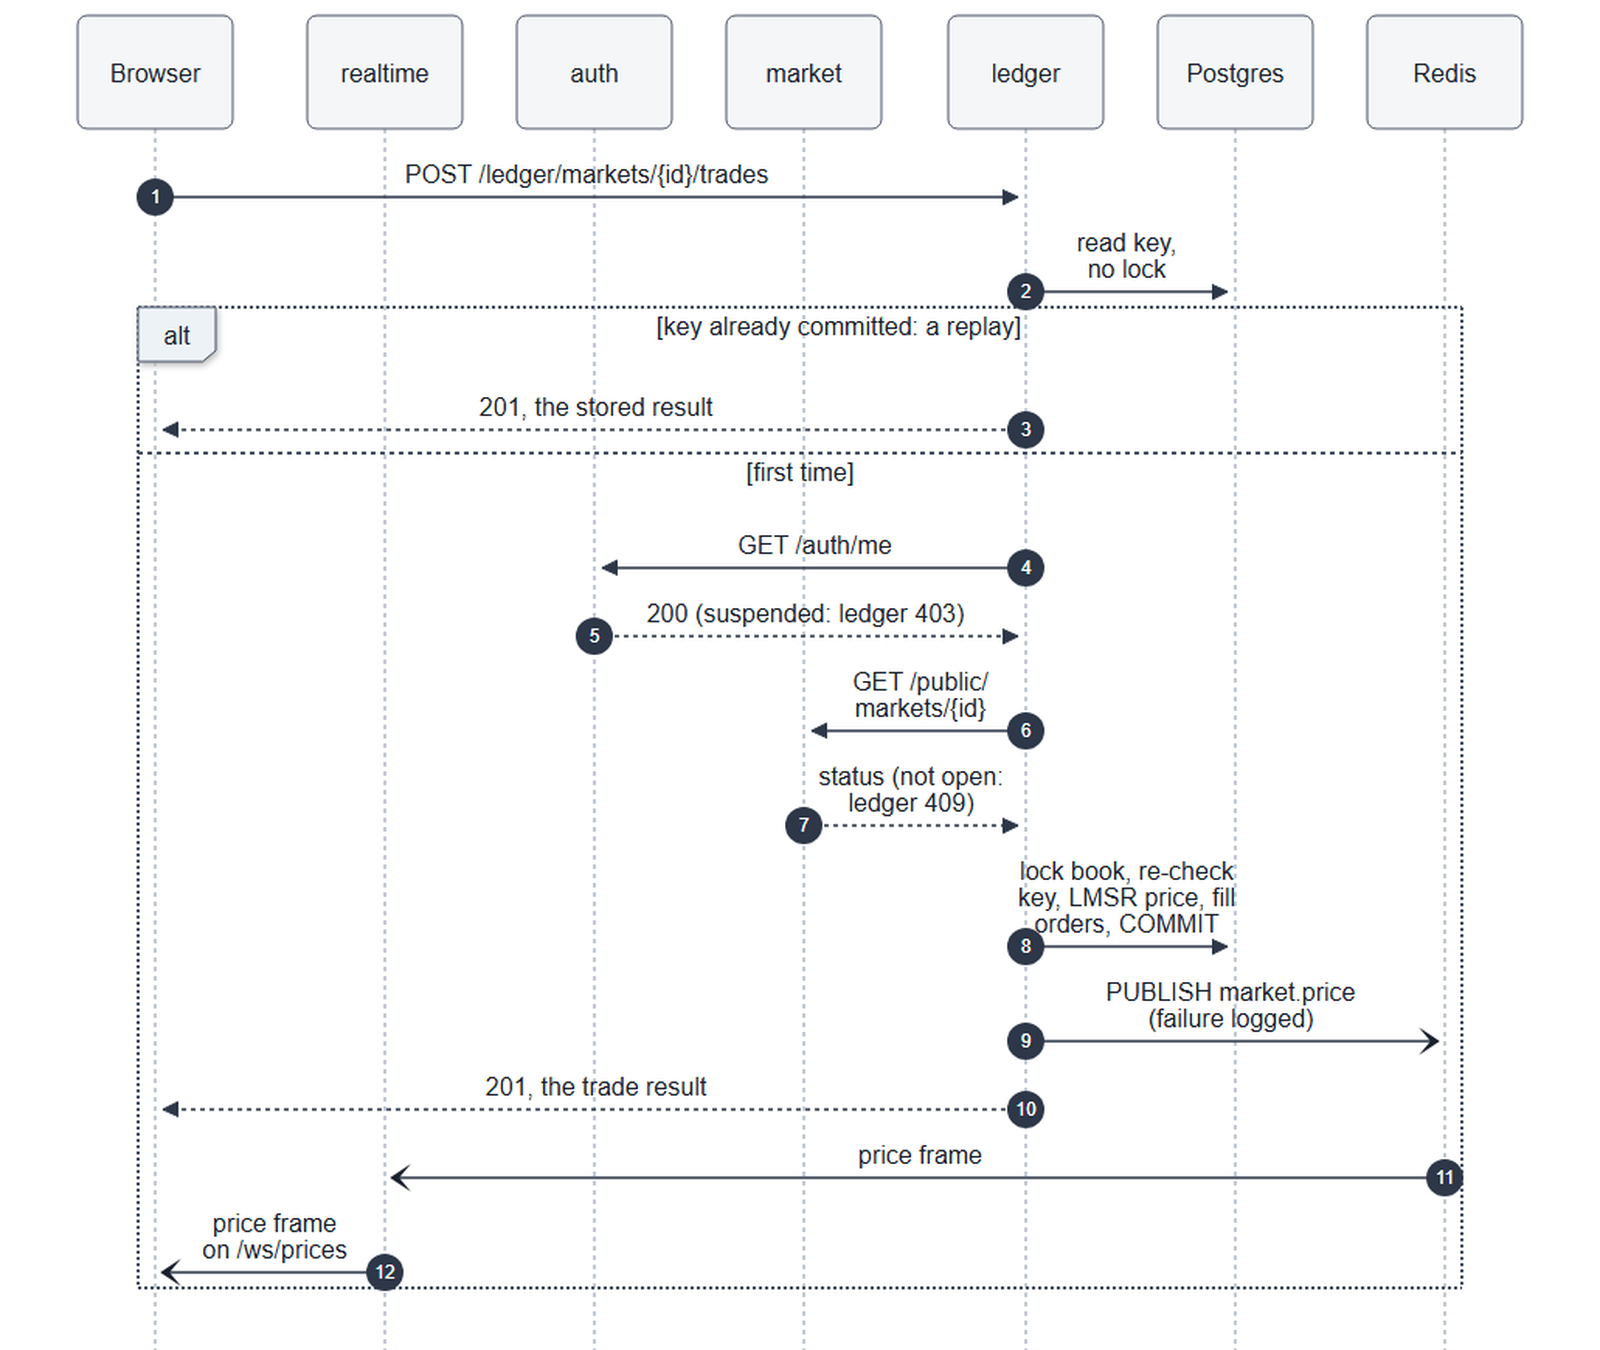
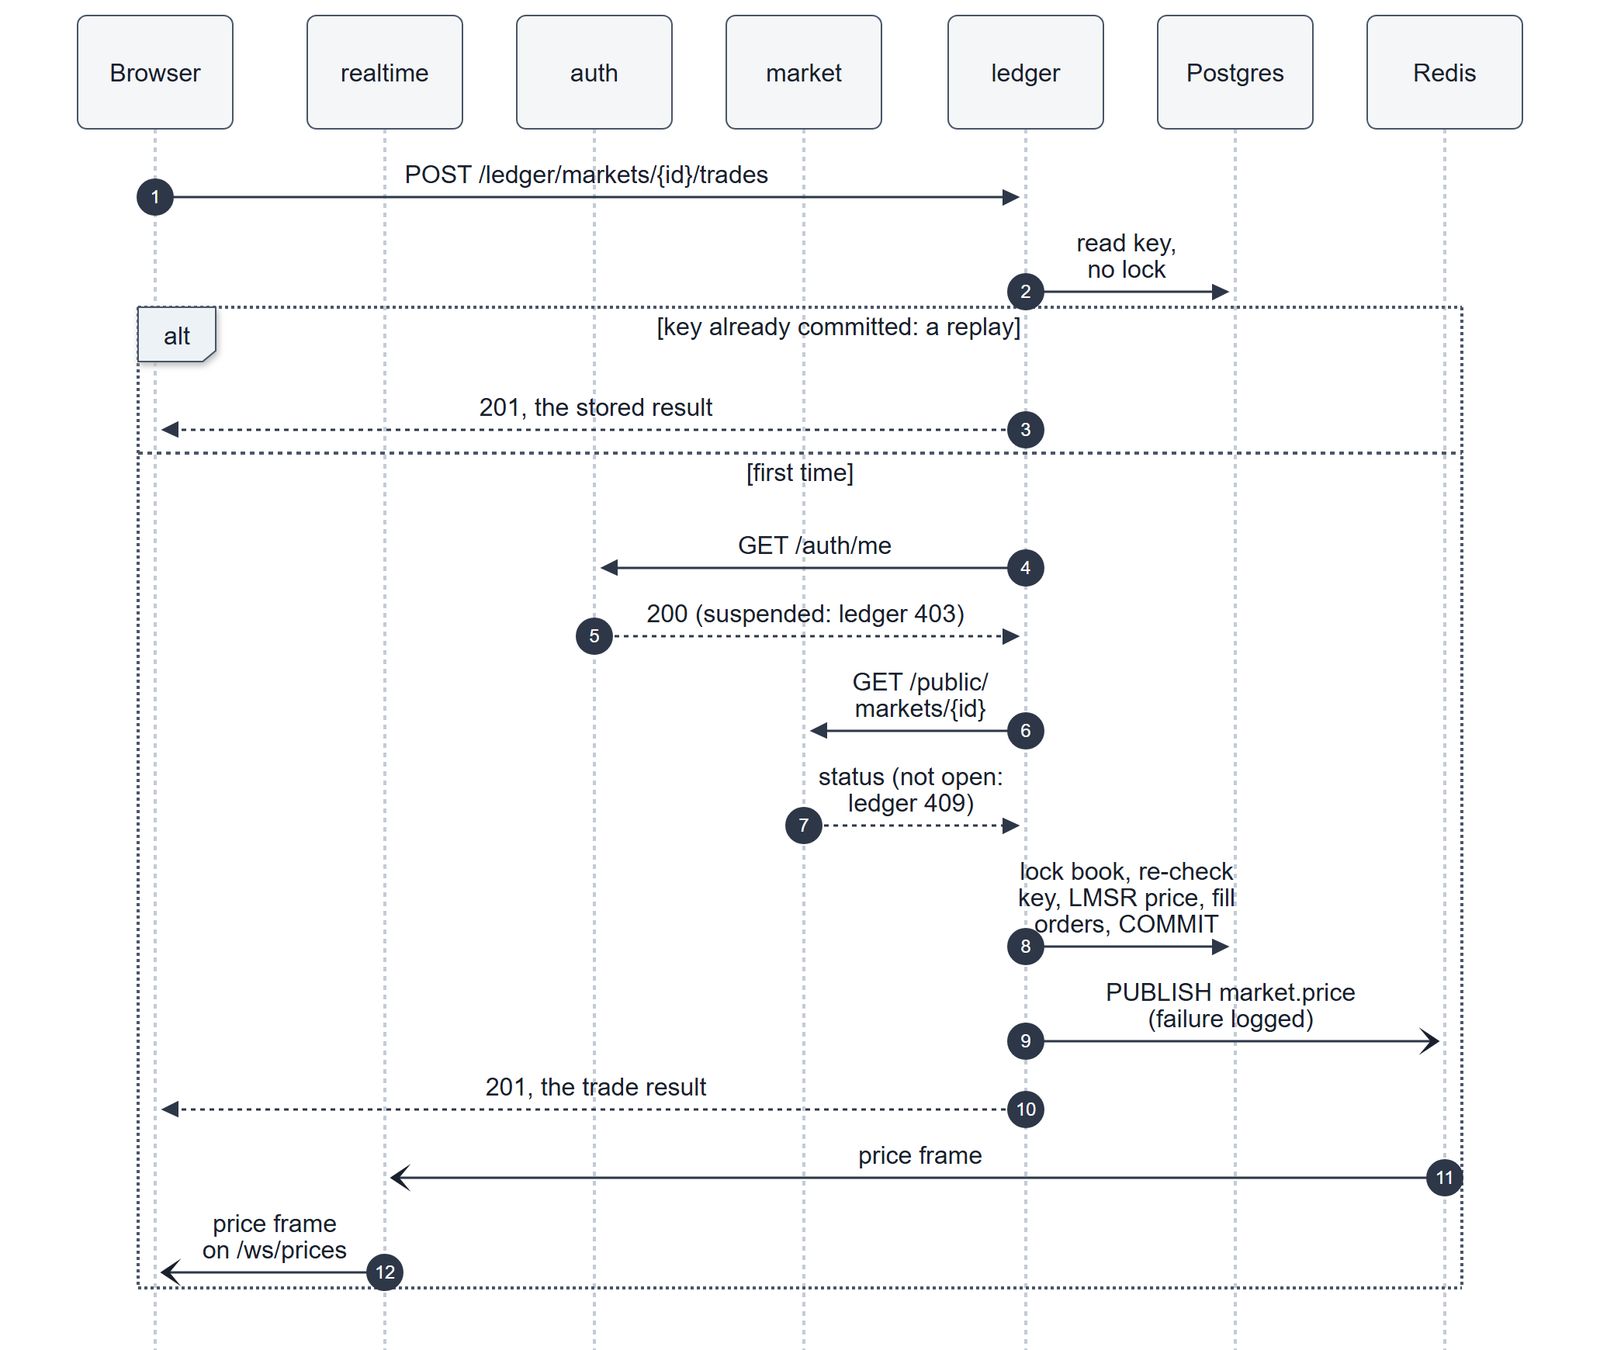
fix(docs): render.py draws each PNG at twice its size and scales down, where it stretched most of them up
Refs #590

diff --git a/docs/diagrams/render.py b/docs/diagrams/render.py
@@ -4,9 +4,9 @@
     python docs/diagrams/render.py 04-erd-overview  # one, by name
 
 Needs mmdc (@mermaid-js/mermaid-cli) on PATH, Node and Pillow. Every PNG
-comes out 1600 px wide on white. mmdc's --size caps the longer side, so the
-size passed is worked out from the SVG's own proportions, and Pillow corrects
-the last few pixels of rounding.
+comes out 1600 px wide on white. mmdc's --size caps the longer side and never
+enlarges, so a diagram narrower than the cap is drawn at twice its size and
+Pillow brings it down to 1600, which keeps its text sharp.
 
 Afterwards it prints how large each diagram's text would print if the SVG
 were placed at full A4 text width: 15.9 cm, which is A4 less the guidelines'
@@ -77,7 +77,7 @@ def render(name: str) -> None:
         mmdc(source, svg, size=WIDTH)
         width, height = svg_proportions(svg)
         longer_side = WIDTH if width >= height else round(WIDTH * height / width)
-        mmdc(source, png, size=longer_side)
+        mmdc(source, png, size=longer_side, scale=2)
 
     image = Image.open(png)
     if image.width != WIDTH:
